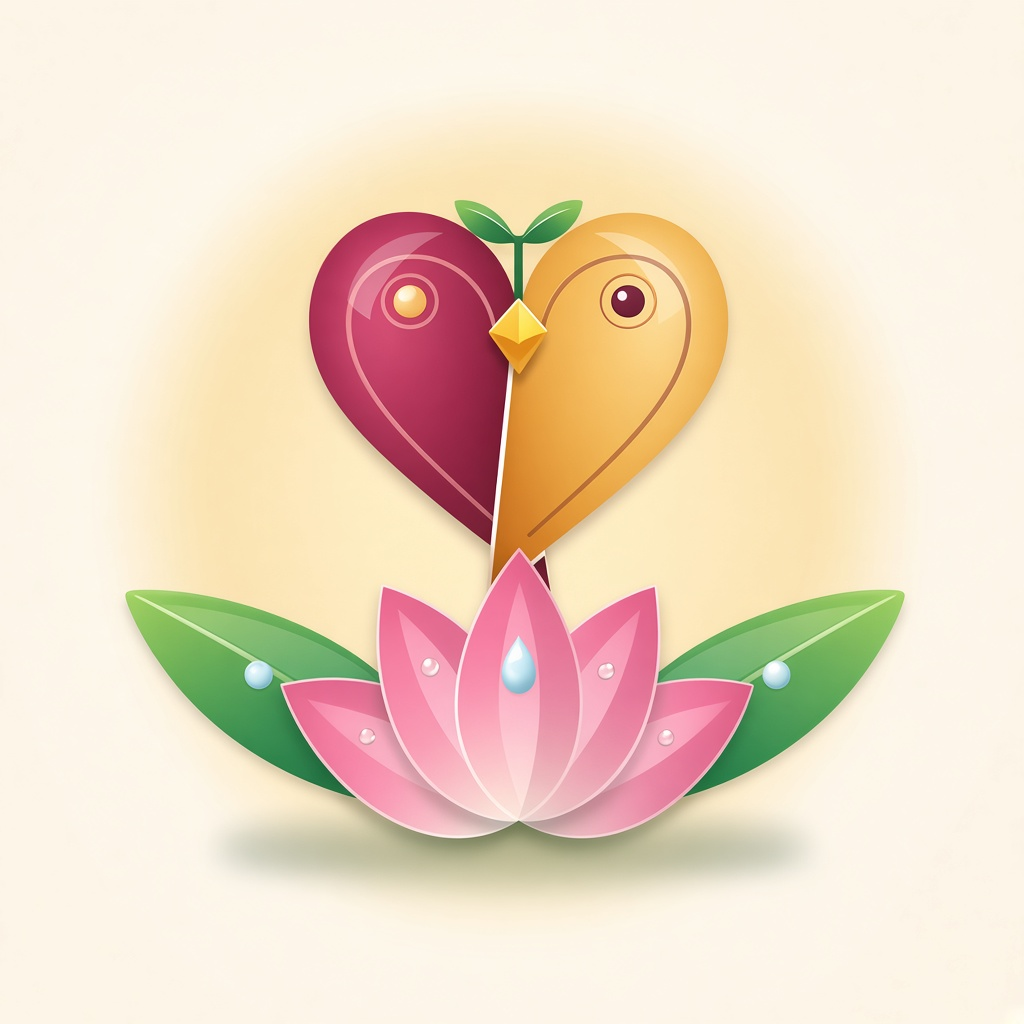
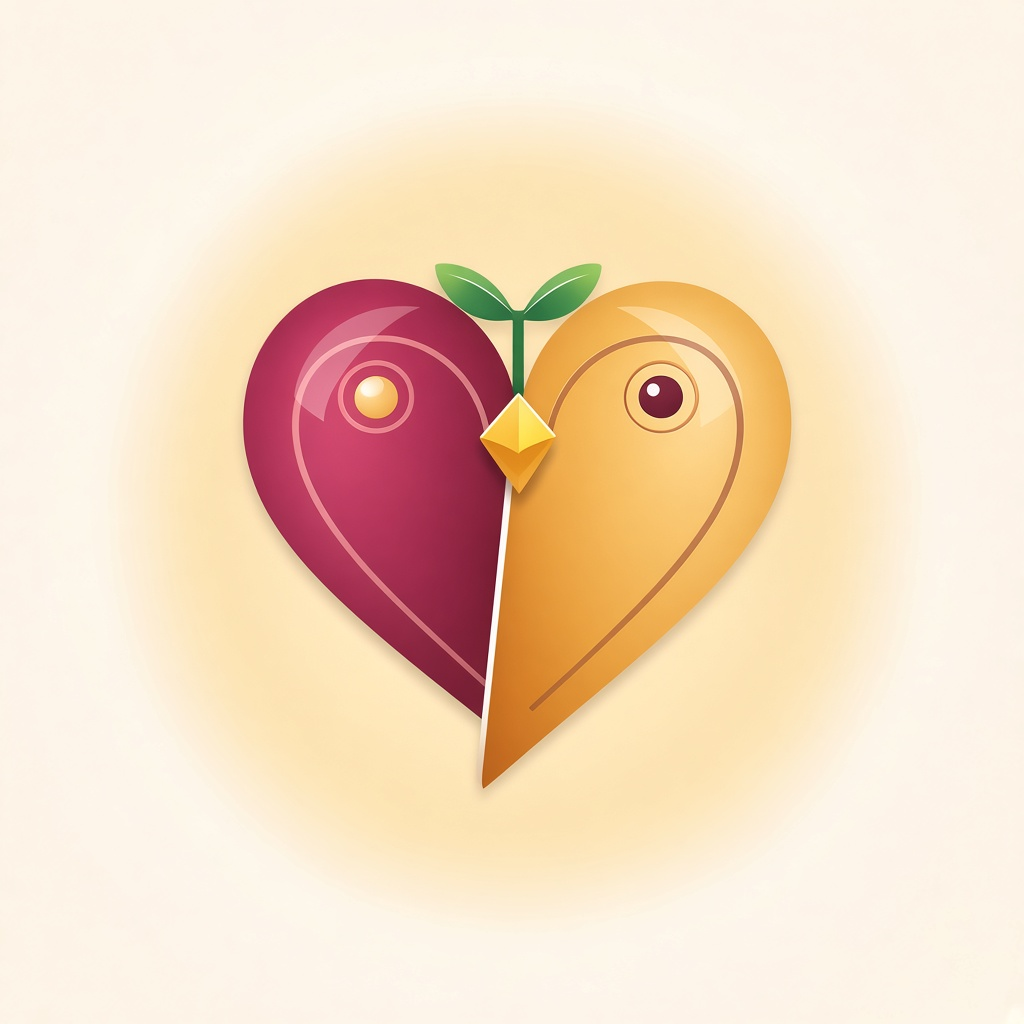
Youtube Improvised

Changed region(s): [[0.125, 0.1875, 0.9062, 0.875]]

diff --git a/src/app/theme-genz.css b/src/app/theme-genz.css
@@ -2117,8 +2117,113 @@ html[data-scene="couple"] .app-main {
 }
 .home-split-art {
   position: relative; width: 100%; min-height: 32rem; height: auto; justify-self: stretch;
-  background: #2a1710; overflow: hidden;
+  background: #f6c7a0; overflow: hidden;
   box-shadow: inset 0 0 0 1px rgb(212 168 90 / 45%);
+}
+.lotus-lake {
+  position: absolute; inset: 0; overflow: hidden; pointer-events: none;
+  background: linear-gradient(180deg, #ffe3c4 0%, #ffc9a0 28%, #7ec8c4 58%, #4ea8a8 100%);
+}
+.lotus-lake.is-wash { opacity: 0.28; filter: saturate(0.85); }
+.lotus-lake-sky { position: absolute; inset: 0 0 42%; background: linear-gradient(180deg, #ffe9d2, #ffb888 70%, transparent); }
+.lotus-lake-sun {
+  position: absolute; left: 50%; top: 18%; width: 5.4rem; height: 5.4rem; margin-left: -2.7rem;
+  border-radius: 50%; background: radial-gradient(circle, #fff4c8, #ffcc66 55%, #f59e42);
+  box-shadow: 0 0 0 1.2rem rgb(255 214 140 / 28%), 0 0 48px rgb(255 180 80 / 55%);
+}
+.lotus-lake-ray {
+  position: absolute; left: 50%; top: 18%; width: 18rem; height: 18rem; margin: -3.6rem 0 0 -9rem;
+  background: repeating-conic-gradient(from 0deg, rgb(255 220 150 / 22%) 0 6deg, transparent 6deg 18deg);
+  mask-image: radial-gradient(circle, #000 0 28%, transparent 62%);
+  animation: lake-ray 22s linear infinite;
+}
+.lotus-lake-hill {
+  position: absolute; left: 0; right: 0; top: 32%; height: 16%;
+  background: linear-gradient(180deg, #d4927a, #c47a68);
+  clip-path: polygon(0 80%, 12% 48%, 28% 62%, 46% 40%, 62% 58%, 78% 36%, 92% 54%, 100% 42%, 100% 100%, 0 100%);
+  opacity: 0.7;
+}
+.lotus-lake-keep {
+  position: absolute; right: 16%; top: 30%; width: 2.4rem; height: 2.1rem;
+  background: #a86a5c; clip-path: polygon(8% 100%, 8% 42%, 28% 42%, 28% 18%, 48% 0, 68% 18%, 68% 42%, 92% 42%, 92% 100%);
+  opacity: 0.75;
+}
+.lotus-lake-bird {
+  position: absolute; top: 16%; width: 0.9rem; height: 0.28rem; color: #6f3a32;
+  background: currentColor;
+  clip-path: polygon(0 60%, 48% 0, 100% 60%, 52% 38%);
+  opacity: 0.7;
+  animation: lake-bird 10s ease-in-out infinite;
+}
+.lotus-lake-bird.is-a { left: 28%; }
+.lotus-lake-bird.is-b { left: 62%; animation-delay: -3s; top: 14%; }
+.lotus-lake-water {
+  position: absolute; inset: 48% 0 0;
+  background:
+    linear-gradient(180deg, rgb(255 255 255 / 35%), transparent 12%),
+    linear-gradient(180deg, #8fd4d0, #4ea8a8 40%, #3b8f8f);
+}
+.lotus-lake-water::after {
+  content: ""; position: absolute; left: 50%; top: 0; width: 42%; height: 42%; margin-left: -21%;
+  background: linear-gradient(180deg, rgb(255 220 140 / 55%), transparent);
+  filter: blur(8px); opacity: 0.7;
+}
+.lotus-lake-flower {
+  position: absolute; bottom: 18%; width: min(34%, 11rem); height: auto;
+  filter: drop-shadow(0 10px 12px rgb(20 60 60 / 25%));
+  transform-origin: 50% 90%;
+}
+.lotus-lake-flower.is-left { left: 8%; animation: lake-meet-left 7.5s ease-in-out infinite; }
+.lotus-lake-flower.is-right { right: 8%; animation: lake-meet-right 7.5s ease-in-out infinite; }
+.lotus-lake-heart {
+  position: absolute; left: 50%; top: 44%; width: 2.35rem; height: 2.15rem; margin: 0 0 0 -1.17rem;
+  filter: drop-shadow(0 6px 10px rgb(138 90 24 / 45%));
+  transform-origin: 50% 80%;
+  animation: lake-heart 7.5s ease-in-out infinite;
+}
+.lotus-lake-bloom {
+  position: absolute; bottom: 28%; width: 1.1rem; height: 1.5rem; border-radius: 80% 80% 40% 40%;
+  background: linear-gradient(180deg, #ff9ec0, #ec6fa0);
+}
+.lotus-lake-bloom.is-l { left: 22%; }
+.lotus-lake-bloom.is-r { right: 22%; }
+.lotus-lake-petal {
+  position: absolute; top: -8%; width: 0.55rem; height: 0.85rem; border-radius: 80% 0 80% 0;
+  background: #f4a7c1; opacity: 0.75; animation: lake-petal 11s linear infinite;
+}
+.lotus-lake-petal.is-1 { left: 22%; animation-duration: 10s; }
+.lotus-lake-petal.is-2 { left: 58%; animation-duration: 13s; animation-delay: 2s; background: #ffd0e2; }
+.lotus-lake-petal.is-3 { left: 78%; animation-duration: 12s; animation-delay: 4s; }
+.lotus-lake-veil { display: none; }
+@keyframes lake-meet-left {
+  0%, 8% { transform: translateX(0); }
+  38%, 62% { transform: translateX(72%); }
+  100% { transform: translateX(0); }
+}
+@keyframes lake-meet-right {
+  0%, 8% { transform: translateX(0); }
+  38%, 62% { transform: translateX(-72%); }
+  100% { transform: translateX(0); }
+}
+@keyframes lake-heart {
+  0%, 30% { opacity: 0; transform: scale(0.4) translateY(12px); }
+  42%, 60% { opacity: 1; transform: scale(1) translateY(0); }
+  78%, 100% { opacity: 0; transform: scale(0.7) translateY(-8px); }
+}
+@keyframes lake-ray { to { transform: rotate(360deg); } }
+@keyframes lake-bird {
+  50% { transform: translate(18px, -6px); }
+}
+@keyframes lake-petal {
+  0% { transform: translateY(0) rotate(0deg); opacity: 0; }
+  12% { opacity: 0.8; }
+  100% { transform: translateY(28rem) rotate(220deg); opacity: 0; }
+}
+@media (prefers-reduced-motion: reduce) {
+  .lotus-lake-flower, .lotus-lake-heart, .lotus-lake-ray, .lotus-lake-bird, .lotus-lake-petal { animation: none; }
+  .lotus-lake-flower.is-left { transform: translateX(72%); }
+  .lotus-lake-flower.is-right { transform: translateX(-72%); }
+  .lotus-lake-heart { opacity: 1; }
 }
 .home-split-art img {
   position: absolute !important; inset: 0 !important;

diff --git a/src/components/home/kalyan-banner.tsx b/src/components/home/kalyan-banner.tsx
@@ -1,54 +1,53 @@
+function Lotus({ className }: { className: string }) {
+  return (
+    <svg className={className} viewBox="0 0 120 110" fill="none" aria-hidden>
+      <ellipse cx="60" cy="96" rx="34" ry="8" fill="#3f9a4a" opacity=".35" />
+      <ellipse cx="60" cy="92" rx="28" ry="10" fill="#4caf50" />
+      <path d="M60 86c-18 2-28 14-28 14s14-4 28-4 28 4 28 4-10-12-28-14Z" fill="#2e7d32" />
+      <path d="M60 78C38 70 24 44 32 28c8 12 20 22 28 26 8-4 20-14 28-26 8 16-6 42-28 50Z" fill="#f4a7c1" />
+      <path d="M60 78C46 58 44 28 60 12c16 16 14 46 0 66Z" fill="#ec6fa0" />
+      <path d="M60 78c8-16 28-28 40-30-8 22-22 34-40 30Z" fill="#ff8fb3" />
+      <path d="M60 78c-8-16-28-28-40-30 8 22 22 34 40 30Z" fill="#ff8fb3" />
+      <path d="M60 74c-6-14-6-28 0-40 6 12 6 26 0 40Z" fill="#ffd0e2" />
+      <circle cx="60" cy="52" r="5" fill="#f3c56a" />
+    </svg>
+  );
+}
+
 export function KalyanBanner({
   intensity = "hero",
   presentation = "cover",
   veil = true,
 }: {
   intensity?: "hero" | "wash";
-  /** Preserve the complete artwork instead of cropping it to fill a hero. */
   presentation?: "cover" | "complete";
-  /** Keep artwork unobstructed when supporting copy is rendered outside it. */
   veil?: boolean;
 }) {
   const hero = intensity === "hero";
-  const complete = hero && presentation === "complete";
   return (
-    <div className="pointer-events-none absolute inset-0 overflow-hidden" aria-hidden>
-      {complete ? (
-        // A soft cover layer avoids empty side bands while the foreground image
-        // remains fully visible and undistorted.
-        // eslint-disable-next-line @next/next/no-img-element
-        <img
-          src="/graphics/shiva-parvati-kalyan-banner.jpg"
-          alt=""
-          decoding="async"
-          className="absolute inset-[-4%] h-[108%] w-[108%] max-w-none object-cover opacity-45 blur-xl"
+    <div className={`lotus-lake${hero ? " is-hero" : " is-wash"}`} aria-hidden>
+      <div className="lotus-lake-sky" />
+      <span className="lotus-lake-sun" />
+      <span className="lotus-lake-ray" />
+      <span className="lotus-lake-hill" />
+      <span className="lotus-lake-keep" />
+      <span className="lotus-lake-bird is-a" />
+      <span className="lotus-lake-bird is-b" />
+      <div className="lotus-lake-water" />
+      <span className="lotus-lake-bloom is-tiny is-l" />
+      <span className="lotus-lake-bloom is-tiny is-r" />
+      <Lotus className="lotus-lake-flower is-left" />
+      <Lotus className="lotus-lake-flower is-right" />
+      <svg className="lotus-lake-heart" viewBox="0 0 24 22" aria-hidden>
+        <path
+          fill="#c47a22"
+          d="M12 21S2 14.2 2 8.2C2 4.8 4.7 2.5 7.8 2.5 9.8 2.5 11.3 3.5 12 5.1 12.7 3.5 14.2 2.5 16.2 2.5 19.3 2.5 22 4.8 22 8.2 22 14.2 12 21 12 21Z"
         />
-      ) : null}
-      {/* eslint-disable-next-line @next/next/no-img-element */}
-      <img
-        src="/graphics/shiva-parvati-kalyan-banner.jpg"
-        alt=""
-        decoding="async"
-        fetchPriority={hero ? "high" : "low"}
-        className={
-          complete
-            ? "absolute inset-0 h-full w-full object-contain opacity-95"
-            : hero
-              ? "anim-kenburns absolute inset-[-8%] h-[116%] w-[116%] max-w-none object-cover"
-              : "absolute inset-0 h-full w-full object-cover opacity-25"
-        }
-      />
-      {hero ? (
-        veil ? (
-          <>
-            <div className={complete ? "absolute inset-0 bg-[linear-gradient(90deg,rgba(18,8,6,0.42)_0%,rgba(18,8,6,0.16)_48%,rgba(18,8,6,0.18)_100%)]" : "absolute inset-0 bg-[linear-gradient(90deg,rgba(18,8,6,0.78)_0%,rgba(18,8,6,0.42)_42%,rgba(18,8,6,0.22)_100%)]"} />
-            <div className={complete ? "absolute inset-0 bg-[linear-gradient(180deg,rgba(18,8,6,0.18)_0%,transparent_30%,rgba(18,8,6,0.32)_100%)]" : "absolute inset-0 bg-[linear-gradient(180deg,rgba(18,8,6,0.35)_0%,transparent_28%,rgba(18,8,6,0.55)_100%)]"} />
-            <span className="lamp lamp-a" />
-          </>
-        ) : null
-      ) : (
-        <div className="absolute inset-0 bg-[var(--paper)]/82" />
-      )}
+      </svg>
+      <span className="lotus-lake-petal is-1" />
+      <span className="lotus-lake-petal is-2" />
+      <span className="lotus-lake-petal is-3" />
+      {hero && veil ? <div className="lotus-lake-veil" /> : null}
     </div>
   );
 }

diff --git a/public/art-mockups.html b/public/art-mockups.html
@@ -1,0 +1,39 @@
+<!doctype html>
+<html lang="en">
+  <head>
+    <meta charset="utf-8" />
+    <meta name="viewport" content="width=device-width, initial-scale=1" />
+    <title>Ritual mockups · MarriageConnect</title>
+    <style>
+      body { margin: 0; font-family: Georgia, serif; background: #f6ead4; color: #3f0e0d; }
+      main { max-width: 52rem; margin: 0 auto; padding: 1.2rem 1rem 5rem; }
+      h1 { font-size: 1.4rem; margin: 0 0 0.4rem; }
+      p { margin: 0 0 1.2rem; color: #6a574c; }
+      figure { margin: 0 0 1.4rem; background: #fffaf3; border-radius: 1rem; overflow: hidden; box-shadow: 0 12px 30px rgb(63 14 13 / 12%); }
+      img { display: block; width: 100%; height: auto; }
+      figcaption { padding: 0.75rem 1rem 1rem; font-size: 0.95rem; }
+    </style>
+  </head>
+  <body>
+    <main>
+      <h1>Wedding ritual mockups</h1>
+      <p>Not on the live Home page. Pick A, B, C or D.</p>
+      <figure>
+        <img src="/art-mockups/r1-pheras.jpg" alt="Pheras around the sacred fire" />
+        <figcaption>A — Pheras (birds circling the sacred fire)</figcaption>
+      </figure>
+      <figure>
+        <img src="/art-mockups/r2-varmala.jpg" alt="Two wedding garlands" />
+        <figcaption>B — Varmala (garlands meeting)</figcaption>
+      </figure>
+      <figure>
+        <img src="/art-mockups/r3-saptapadi.jpg" alt="Seven diyas as seven steps" />
+        <figcaption>C — Saptapadi (seven steps / seven diyas)</figcaption>
+      </figure>
+      <figure>
+        <img src="/art-mockups/r4-thali.jpg" alt="Wedding ritual thali" />
+        <figcaption>D — Shubh thali (haldi, rice, kumkum)</figcaption>
+      </figure>
+    </main>
+  </body>
+</html>

diff --git a/src/components/brand-crest.tsx b/src/components/brand-crest.tsx
@@ -1,8 +1,16 @@
 export function BrandCrest() {
   return (
     <span className="brand-crest" aria-hidden>
-      {/* eslint-disable-next-line @next/next/no-img-element */}
-      <img src="/brand/crest.jpg" alt="" width={176} height={176} />
+      <svg viewBox="0 0 64 64" fill="none">
+        <path
+          d="M10 38c-1.2-8 5.2-14.6 12.4-12.8 3.2.8 5.2 3 7.6 6.2 2.4-3.2 4.4-5.4 7.6-6.2C45 23.4 51.4 30 50.2 38 48.6 48 32 56.5 32 56.5S15.4 48 10 38Z"
+          fill="#8a1f2b"
+        />
+        <path d="M32 31.5c2.8-4.2 5.6-7 9.4-8.2 5.8-1.8 11.4 3.2 12.4 10.2.8 5.2-1.6 10.4-6.6 15.2" fill="#c47a22" />
+        <path d="M8 42c6-1 12 3 16 9-8 1.4-16.5-2-16-9Z" fill="#3f9a4a" />
+        <path d="M56 42c-6-1-12 3-16 9 8 1.4 16.5-2 16-9Z" fill="#2f8a3e" />
+        <path d="M24 50c3.2 2.2 6.2 3.6 8 4.2 1.8-.6 4.8-2 8-4.2-2.4 5-6.2 8.4-8 8.4s-5.6-3.4-8-8.4Z" fill="#7ac24a" />
+      </svg>
     </span>
   );
 }
